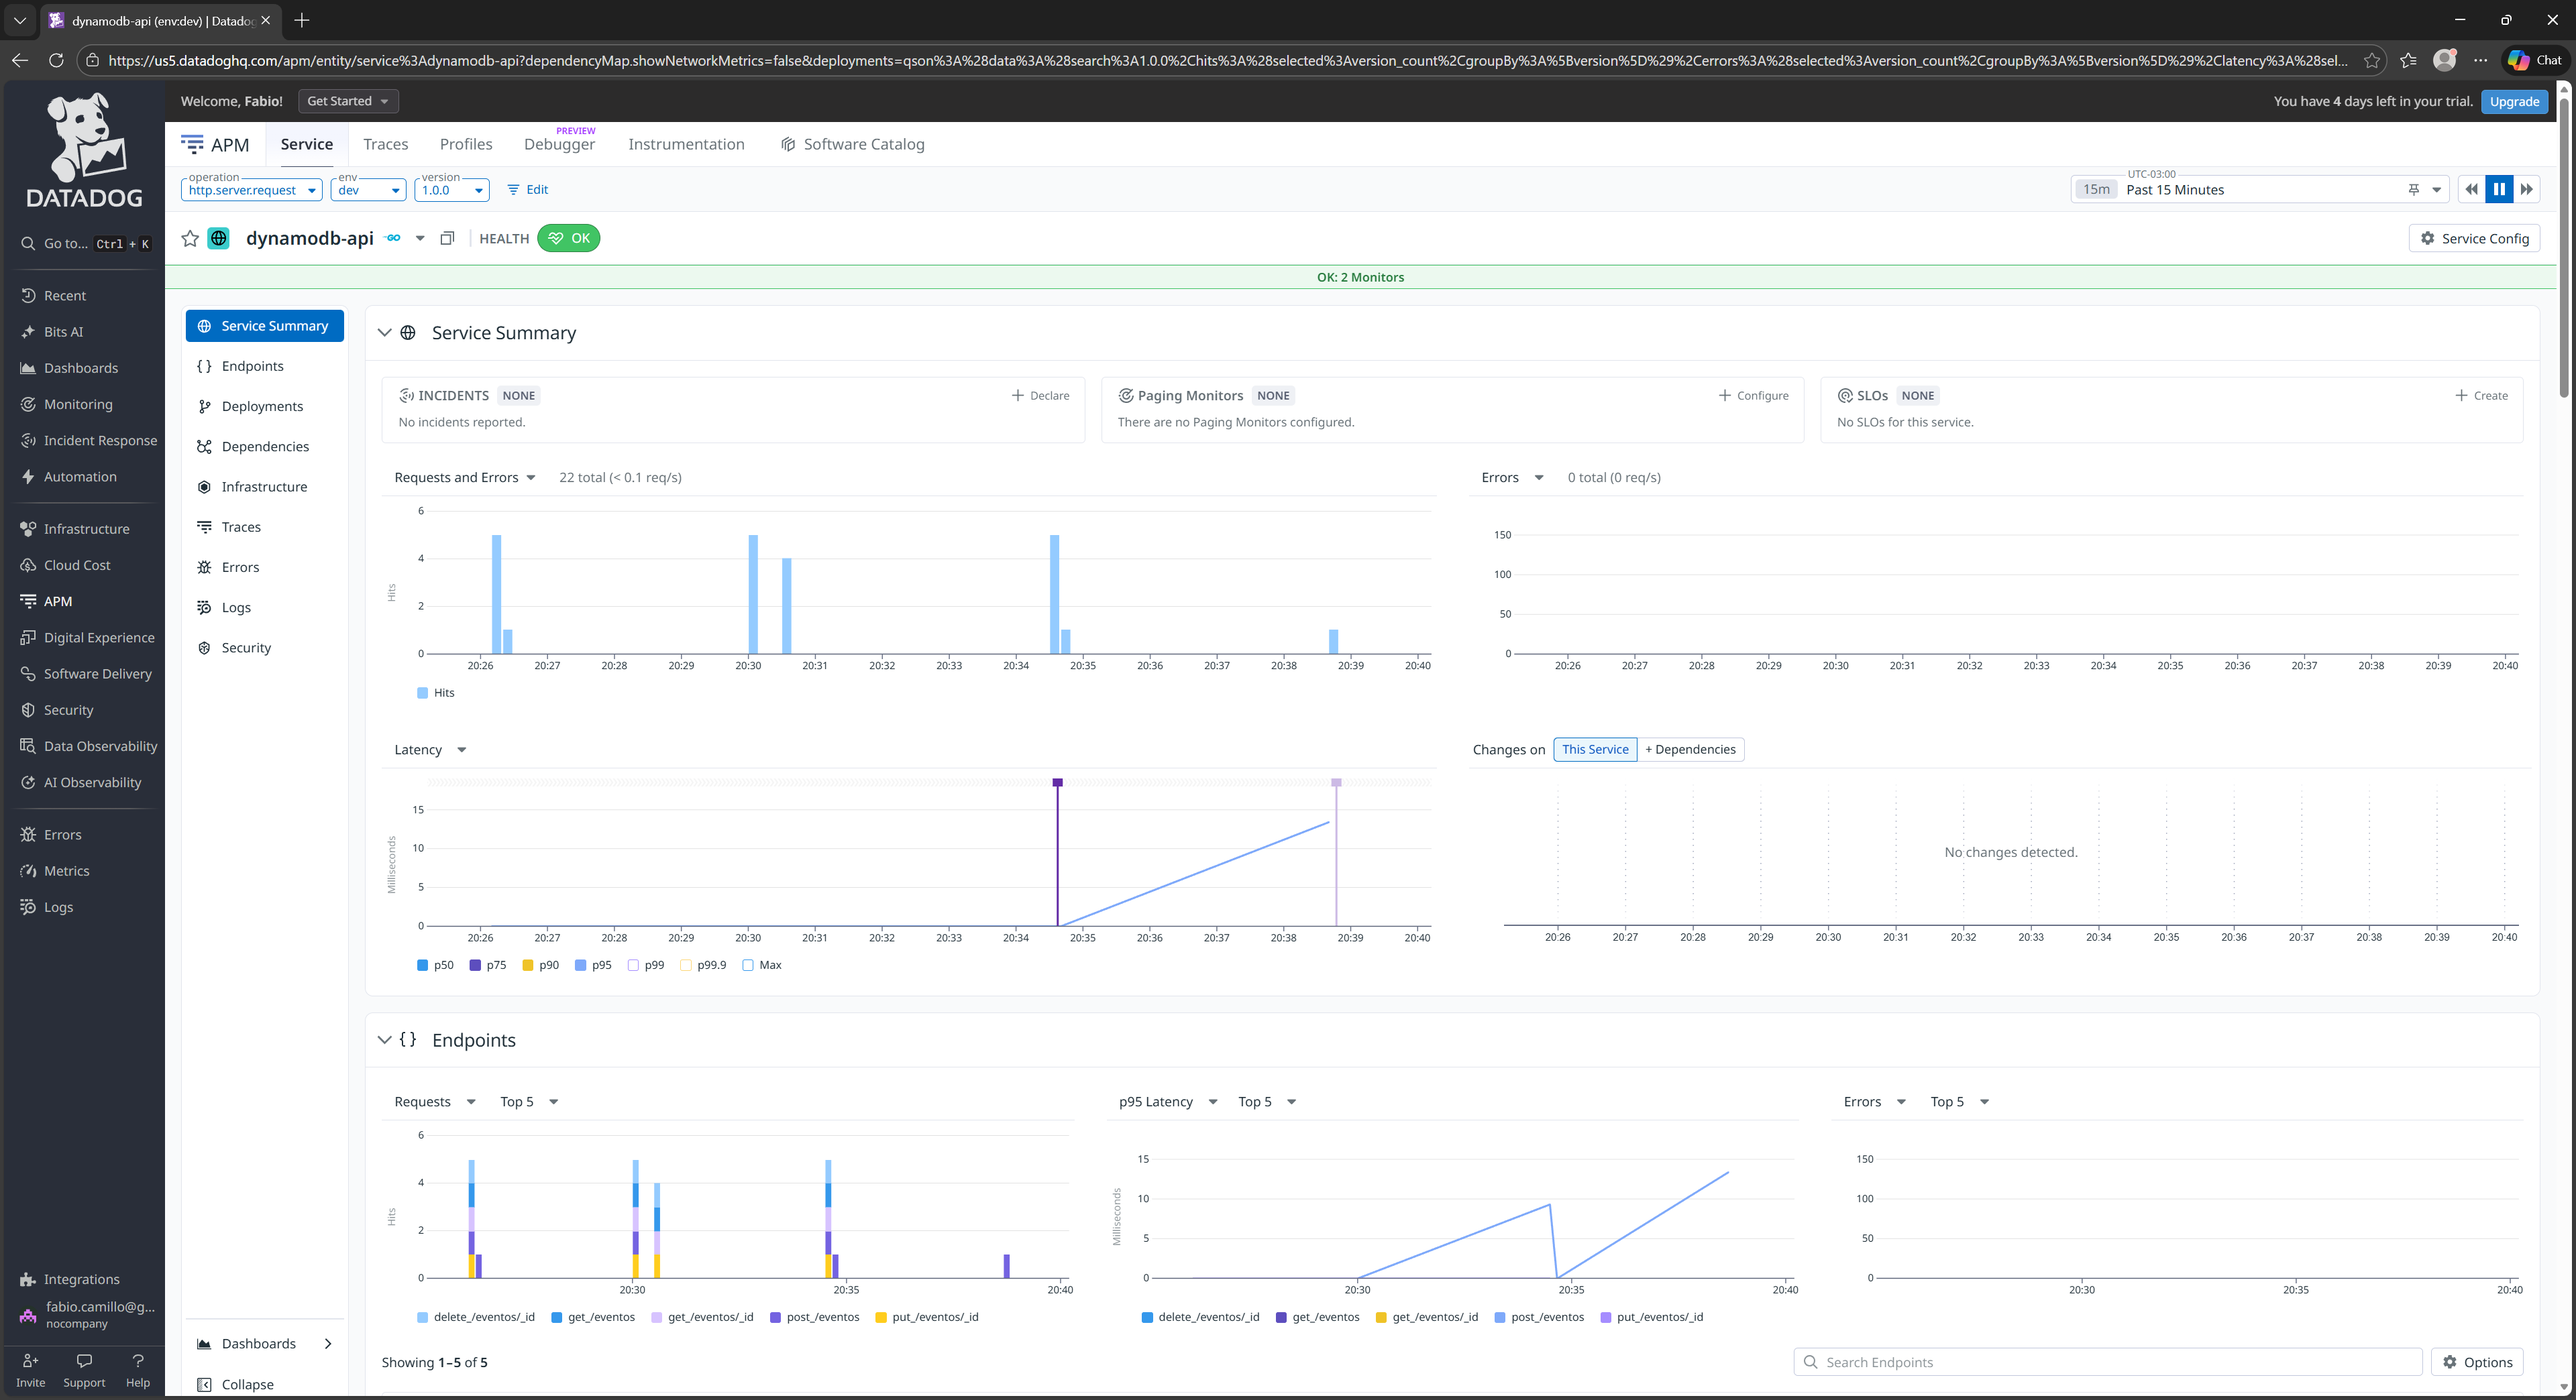
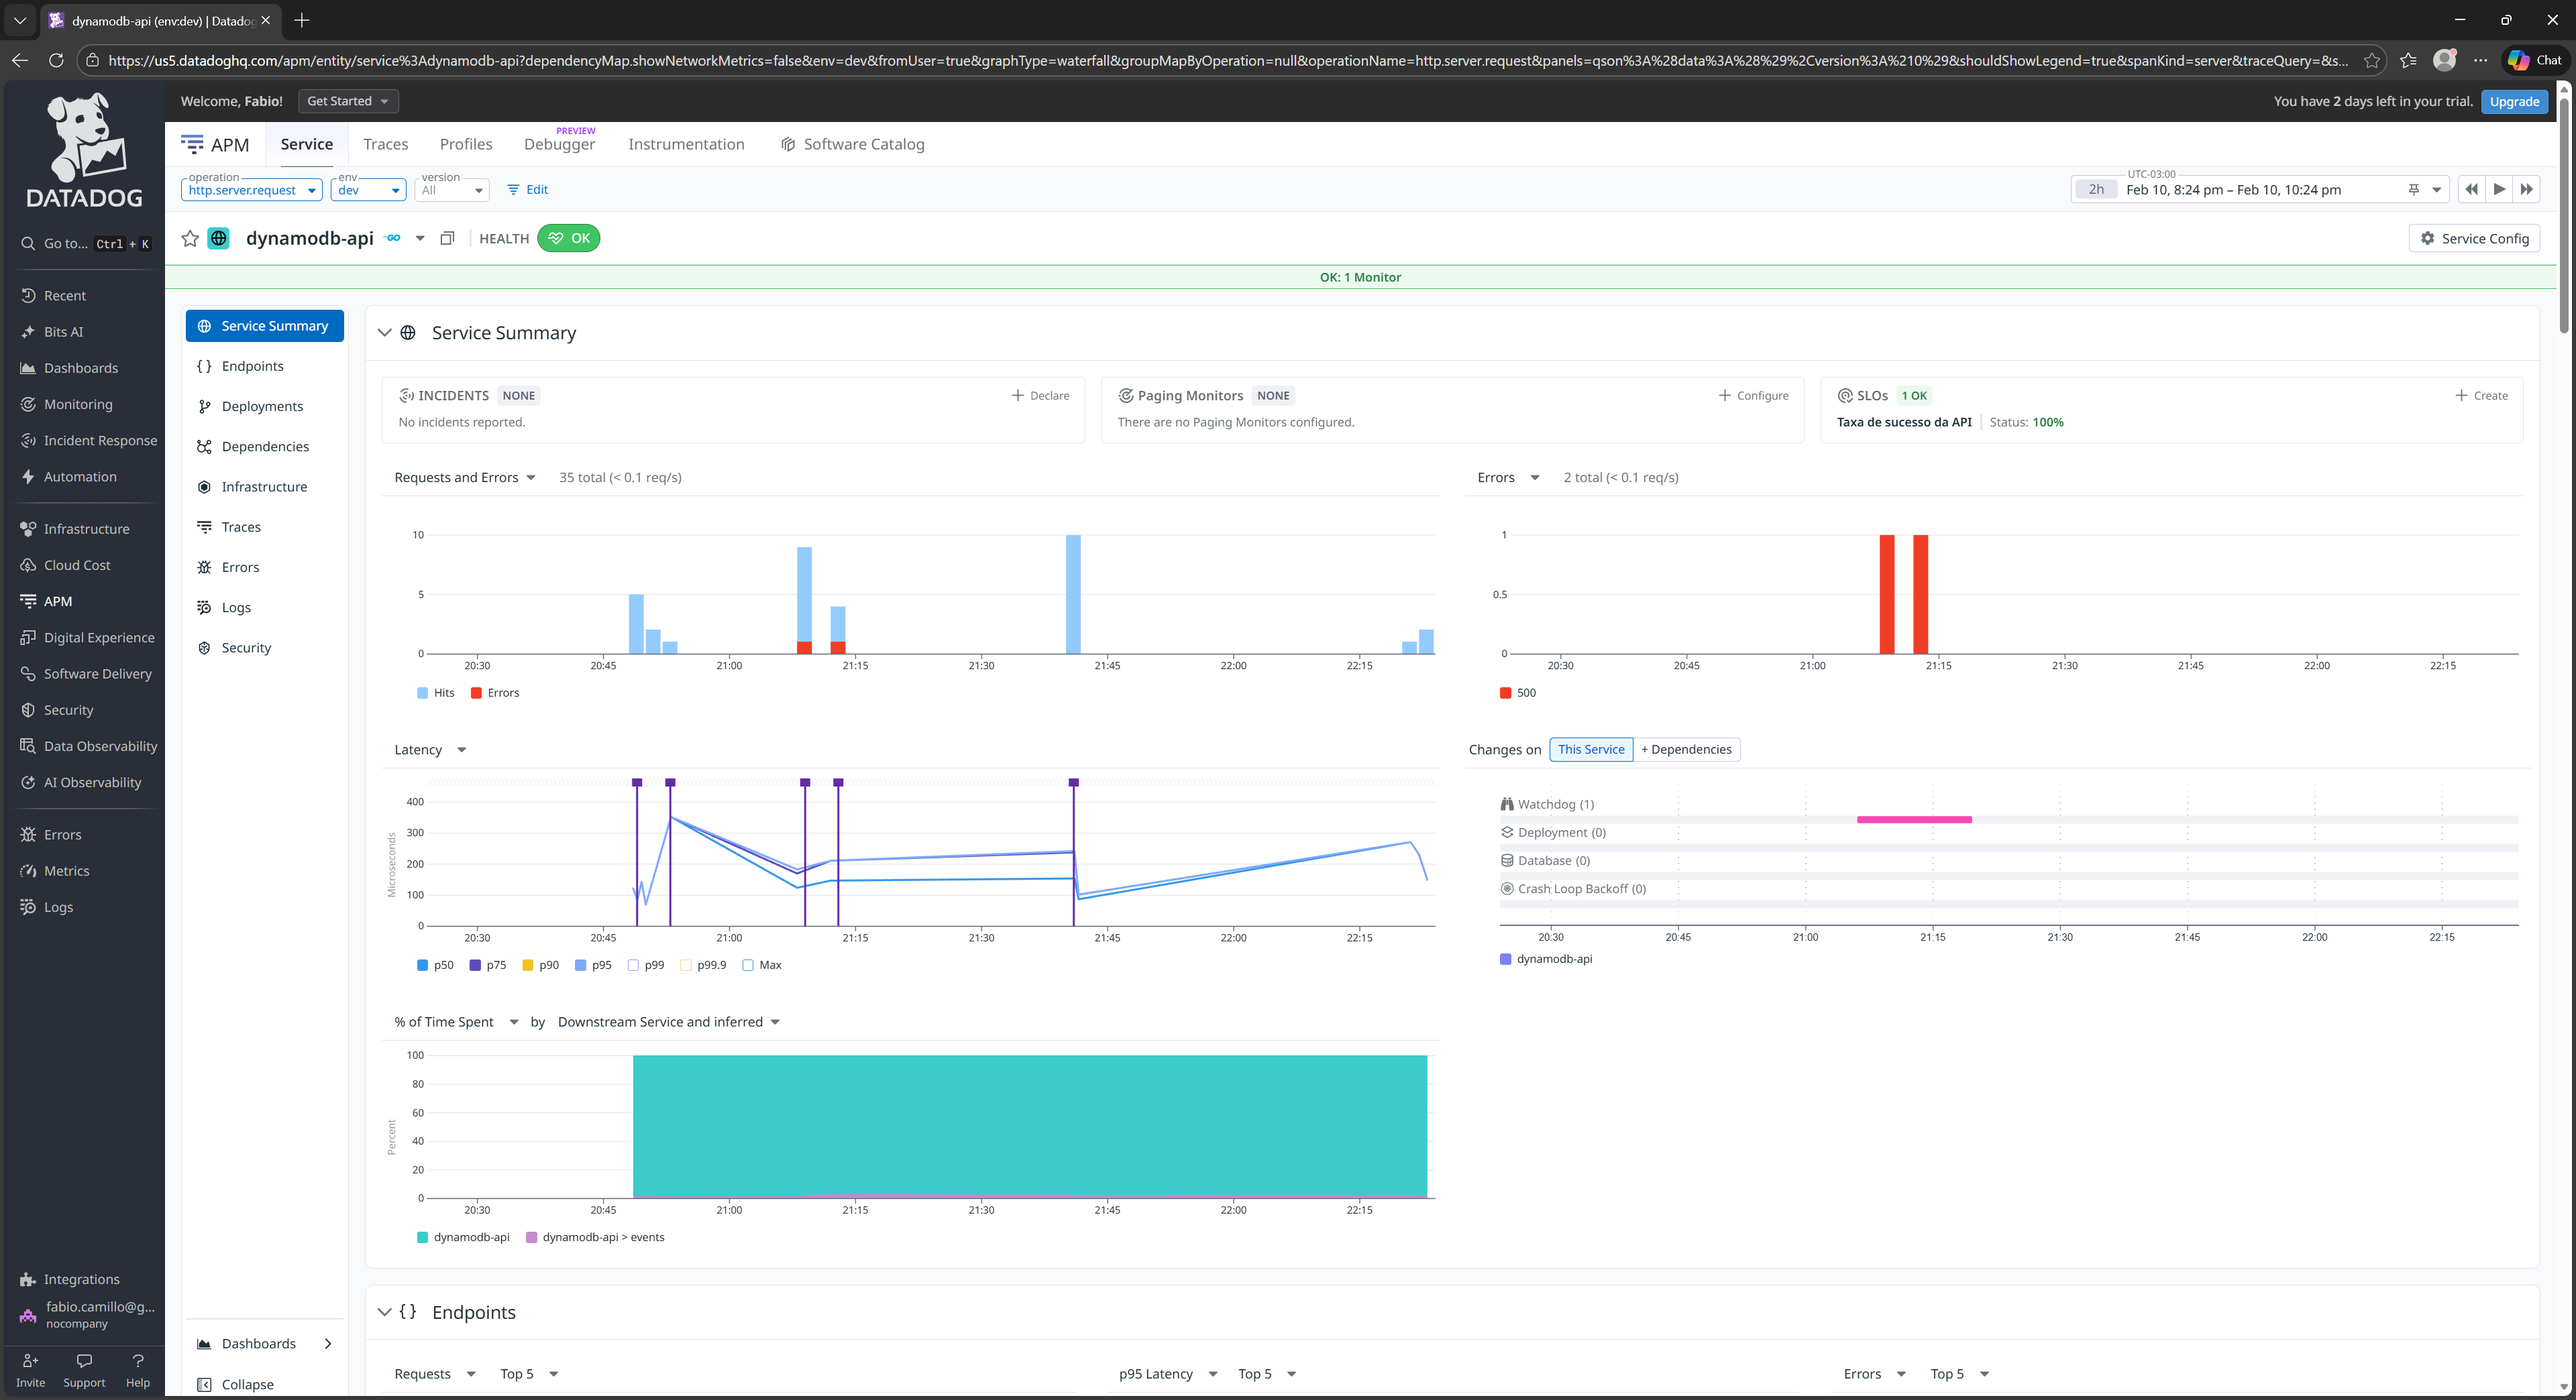
atualizado para gerar traces e logs corretamente, adicionado novos printscreens e datadog agent

diff --git a/README.md b/README.md
@@ -631,6 +631,13 @@ Capturas de tela da integração Datadog estão em `extra/`:
 ![APM 10](extra/datadog_apm10.png)
 ![APM 11](extra/datadog_apm11.png)
 ![APM 12](extra/datadog_apm12.png)
+![APM 13](extra/datadog_apm13.png)
+![APM 14](extra/datadog_apm14.png)
+![APM 15](extra/datadog_apm15.png)
+![APM 16](extra/datadog_apm16.png)
+![APM 17](extra/datadog_apm17.png)
+![APM 18](extra/datadog_apm18.png)
+![APM 19](extra/datadog_apm19.png)
 
 ### Métricas Customizadas
 
